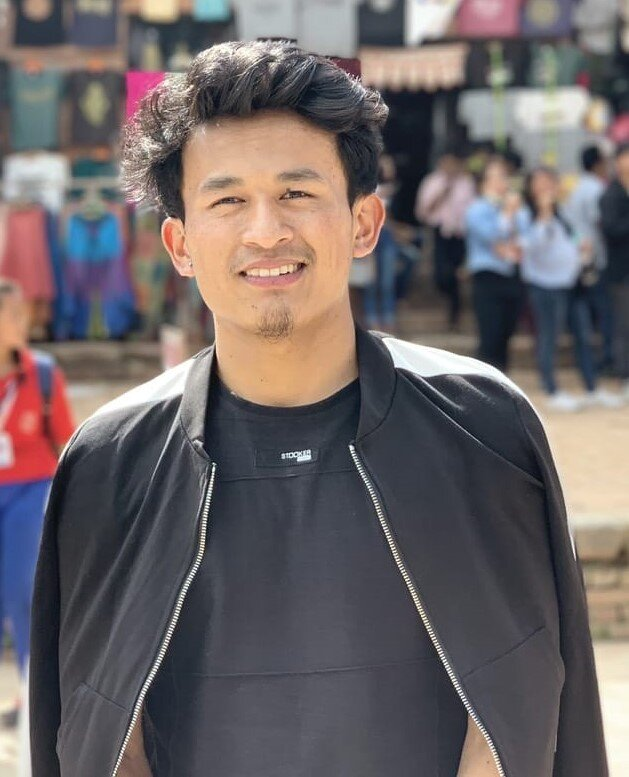
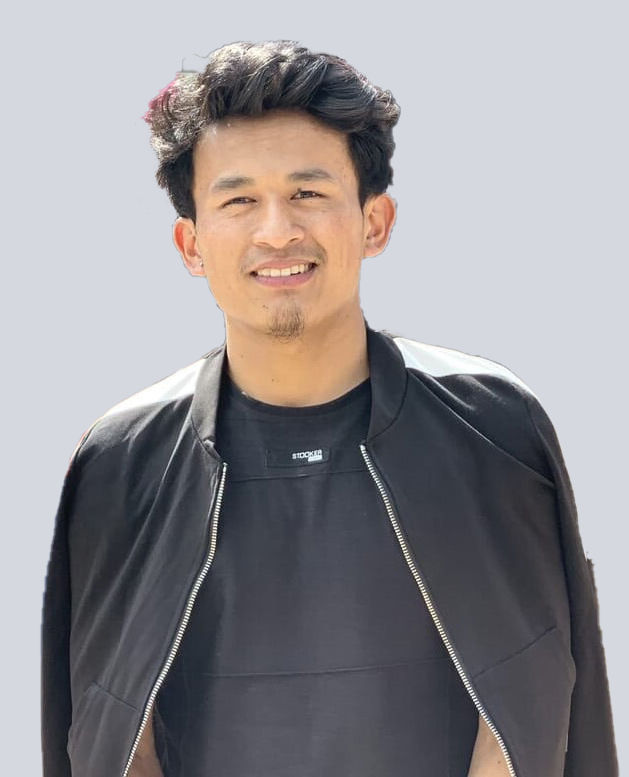
Profile Image

diff --git a/resources/views/frontend/components/home.blade.php b/resources/views/frontend/components/home.blade.php
@@ -8,13 +8,13 @@
                 <h1 class="mb-4 title"> a <span class="typed-text"></span><span class="cursor">&nbsp</span></h1>
                 <p>{{$siteSetting->description}}</p>
                 <div class="mt-sm-5 mt-4">
-                    <a class="btn btn-primary btn-style mr-2" href="contact.html"> Hire Me </a>
-                    <a class="btn btn-outline-primary btn-style mr-2" href="#portfolio"> Portfolio </a>
+                    <a class="btn btn-primary btn-style mr-2" href="{{route('frontend.contact')}}"> Hire Me </a>
+                    <a class="btn btn-outline-primary btn-style mr-2" href="{{route('frontend.about')}}"> Portfolio </a>
                 </div>
             </div>
             <div class="col-lg-6 col-md-8 col-sm-10 mt-lg-0 mt-4">
                 <div class="img-effect text-lg-center">
-                    <img src="{{asset('frontend/images/photo.png')}}" alt="myphoto" class="img-fluid">
+                    <img src="{{$siteSetting->image}}" alt="myphoto" class="img-fluid">
                 </div>
             </div>
         </div>

diff --git a/app/Models/SiteSetting.php b/app/Models/SiteSetting.php
@@ -4,9 +4,17 @@ namespace App\Models;
 
 use Illuminate\Database\Eloquent\Factories\HasFactory;
 use Illuminate\Database\Eloquent\Model;
+use Spatie\MediaLibrary\HasMedia;
+use Spatie\MediaLibrary\InteractsWithMedia;
 
-class SiteSetting extends Model
+class SiteSetting extends Model implements HasMedia
 {
     use HasFactory;
+    use InteractsWithMedia;
+
     protected $fillable = ['name', 'designation1', 'designation2', 'designation3', 'description', 'email', 'address', 'phone', 'facebook_link', 'linkedin_link', 'instagram_link', 'twitter_link'];
+
+    public function getImageAttribute(){
+        return $this->hasMedia() ? $this->getMedia()[0]->getFullUrl() : asset ('backend/images/profile-img.jpg');
+    }
 }

diff --git a/database/seeders/SiteSettingSeeder.php b/database/seeders/SiteSettingSeeder.php
@@ -27,6 +27,8 @@ class SiteSettingSeeder extends Seeder
         $model->linkedin_link = 'https://www.linkedin.com/in/ojasvi-tamang/';
         $model->instagram_link = 'https://www.instagram.com';
         $model->twitter_link = 'https://www.twitter.com';
+        $model->addMediaFromUrl(asset('backend/images/profile-img.png'))->preservingOriginal()->toMediaCollection('default');
         $model->save();
+        $model->image = $model->getMedia()[0]->getFullUrl();
     }
 }

diff --git a/resources/views/frontend/index.blade.php b/resources/views/frontend/index.blade.php
@@ -9,6 +9,7 @@
         }
     </style>
 @endsection
+
 @section('content')
     @include('frontend.components.home')
 
